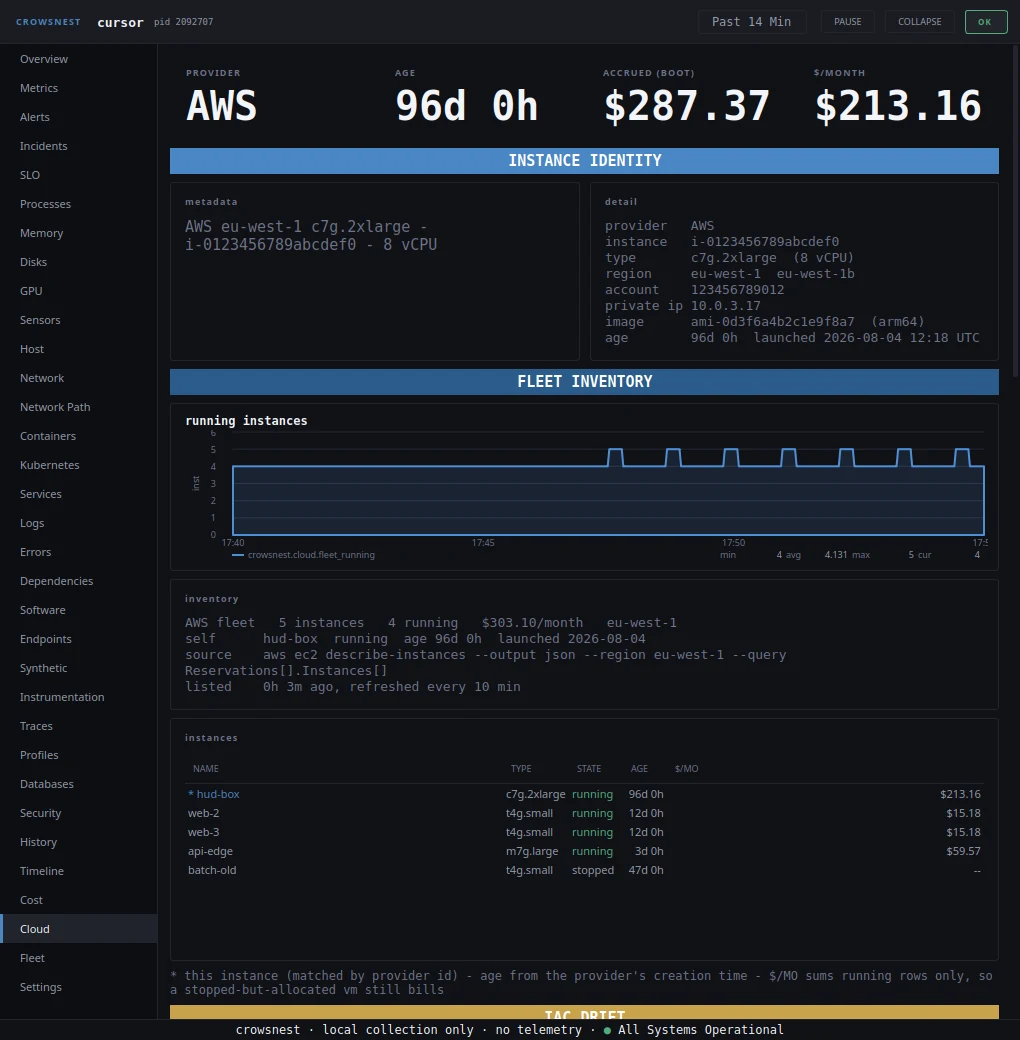
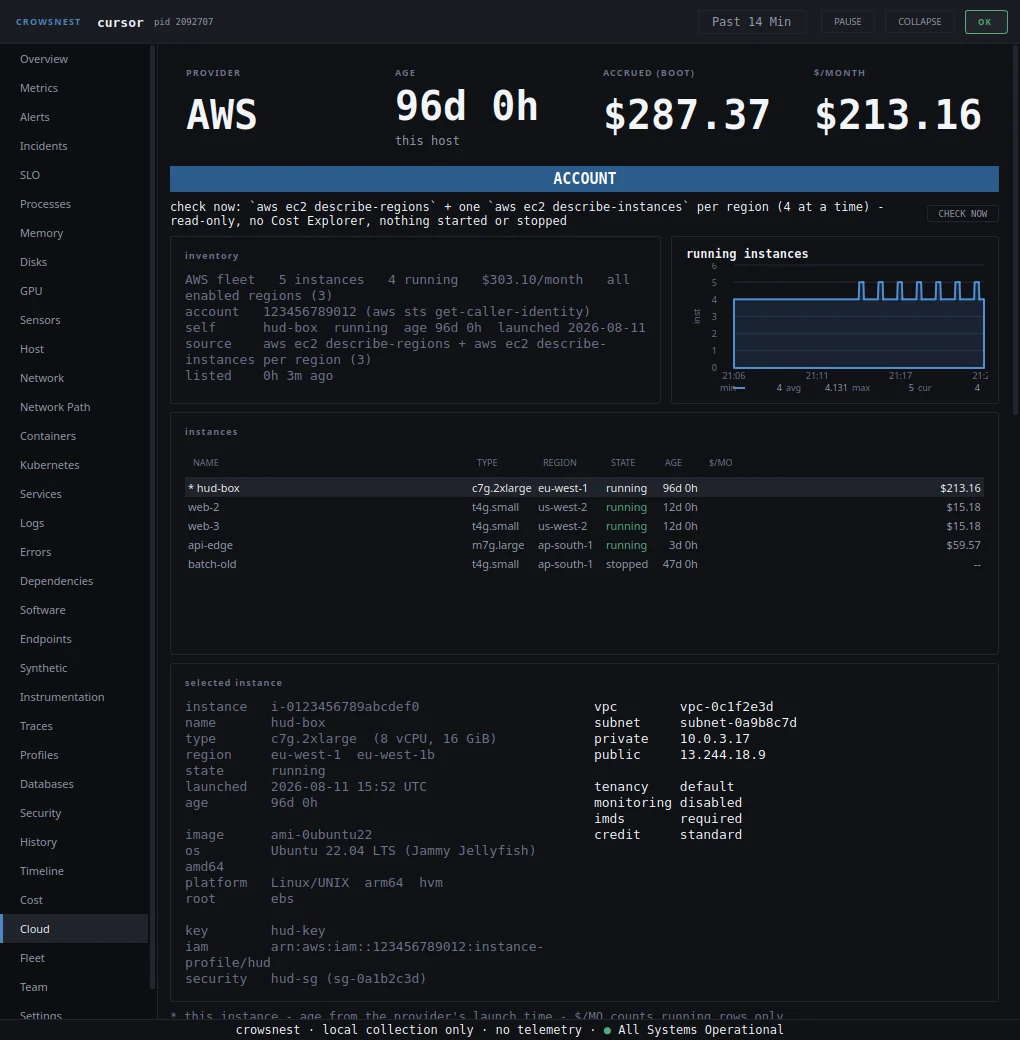
readme: the Cloud page as it now stands, and a current screenshot
The tour paragraph described the account listing but not what the page shows
once you pick an instance, and the embedded capture was from before the page
was re-laid out.

- the Cloud paragraph now says what the whole account listing is, how
  identity=auto works, what the selected instance shows (image and
  distribution, vCPU and memory, key, role, groups, network, root device,
  tenancy, monitoring, IMDSv2, credit, tags) and what the page never does
  (no lifecycle verbs, no credential read or store, no cost query from a
  timer).
- configuration gains the [cloud] block; the FAQ answers what the page needs
  (a logged in CLI plus the read permissions) and what happens when a console
  session expires.
- the capability table and the subtitle say 34 views, matching the rail.
- docs/shots/cloud.webp re-captured from the current build.

diff --git a/README.md b/README.md
@@ -4,7 +4,7 @@
 
 # Crowsnest
 
-### A local first HUD that follows the app you are using, and a console with 33 views for everything the machine does.
+### A local first HUD that follows the app you are using, and a console with 34 views for everything the machine does.
 
 [![latest release](https://img.shields.io/github/v/release/codeafridi/Crowsnest)](https://github.com/codeafridi/Crowsnest/releases)
 [![license](https://img.shields.io/github/license/codeafridi/Crowsnest)](LICENSE)
@@ -89,7 +89,7 @@ History, Timeline, Cost, Cloud, Fleet, Team, Settings.
 <tr><td><b>Hardware</b></td><td>GPU utilization, VRAM and per process GPU use; temperatures, fans, power, battery</td><td>yes</td><td>partial</td><td>partial</td></tr>
 <tr><td><b>Security</b></td><td>Sandbox exposure and hardening findings, file integrity, log based threats</td><td>yes</td><td>yes</td><td>yes</td></tr>
 <tr><td><b>History and timeline</b></td><td>A bounded ring you can rewind, one stream of every change, CSV and JSON export</td><td>yes</td><td>yes</td><td>yes</td></tr>
-<tr><td><b>Cost and cloud</b></td><td>Cluster cost model and right sizing, cloud identity, billed spend, account inventory</td><td>yes</td><td>yes</td><td>yes</td></tr>
+<tr><td><b>Cost and cloud</b></td><td>Cluster cost model and right sizing, cloud identity, the whole account with per instance detail, billed spend</td><td>yes</td><td>yes</td><td>yes</td></tr>
 <tr><td><b>Fleet</b></td><td>Several machines polling each other, shown in one console</td><td>yes</td><td>yes</td><td>yes</td></tr>
 <tr><td><b>Team</b></td><td>The relay's fleet and incident queue, read with the machine's own token, with acknowledge, close and silence from the HUD</td><td>yes</td><td>yes</td><td>yes</td></tr>
 </table>
@@ -121,15 +121,21 @@ so the spike and its cause are read together.
 deprecated APIs and a cost model read through the kubectl you already have.
 Problem pods and their events are surfaced before the whole page.
 
-<img src="docs/shots/cloud.webp" alt="Cloud page with instance identity, accrued cost and fleet inventory" width="1000" />
+<img src="docs/shots/cloud.webp" alt="Cloud page showing the account inventory, its chart and the selected instance detail" width="1000" />
 
-**The box itself, priced.** Instance identity comes from the local metadata
-service, rates from a file you import, spend from the provider CLI you already
-logged in to. On AWS the inventory is the **whole account**: `sts` names it,
-`describe-regions` finds the enabled regions and one `describe-instances` runs
-per region, so an instance started anywhere appears. `[cloud] identity=auto`
-takes the account from that same login, which is what makes it work on a
-laptop. The card states where each number came from.
+**The box itself, priced, and the whole account beside it.** Instance identity
+comes from the local metadata service, rates from a file you import, spend from
+the provider CLI you already logged in to. On AWS the inventory is the whole
+account: one call names the account, another lists the enabled regions, then one
+`describe-instances` per region, so an instance started anywhere appears.
+`[cloud] identity=auto` takes the account from that same CLI login, which is
+what makes the page work on a laptop with no metadata service. Selecting an
+instance shows what the provider reported: the AMI and the distribution it
+runs, vCPU and memory, the key pair, the IAM role, security groups, VPC,
+subnet, both addresses, the root device, tenancy, monitoring, IMDSv2 state, CPU
+credit mode and tags. The page never starts, stops or terminates an instance,
+never reads or stores credentials, and the line above CHECK NOW states exactly
+what it runs.
 
 ## Platforms
 
@@ -175,9 +181,14 @@ url = https://your.receiver/hook
 enabled = false
 url = https://relay.example.com
 token = your ingest token
+
+[cloud]
+enabled = true
+identity = auto
 ```
 
-`[cloud]` turns the metadata read and the provider CLI on or off, `[fleet]`
+`[cloud]` turns the metadata read and the provider CLI on or off, and
+`identity = auto` takes the AWS account and region from the CLI login, `[fleet]`
 carries peers, `[overlay]` the strip position, `[alerts]` the monitor thresholds
 and `[theme]` the accent and backdrop. The full key list is in
 [docs/manual.md](docs/manual.md).
@@ -206,6 +217,17 @@ metadata read that the Cloud page documents and can switch off.
 Shared state that outlives a closed laptop: fleet history, rules, paging,
 on call rotas, members and billing. The desktop app is free and not gated, and
 the reporter is off until you enable it. See [docs/remote.md](docs/remote.md).
+</details>
+
+<details>
+<summary><strong>What does the Cloud page need?</strong></summary>
+
+The provider's own CLI, already logged in: `aws login` for a console session,
+or `aws configure` for an IAM user. Six read permissions cover everything it
+asks for, listed in [docs/cloud.md](docs/cloud.md). Crowsnest never reads or
+stores the credentials, and no verb in it starts, stops or terminates an
+instance. A console session expires after a while; running `aws login` again
+restores it.
 </details>
 
 <details>
